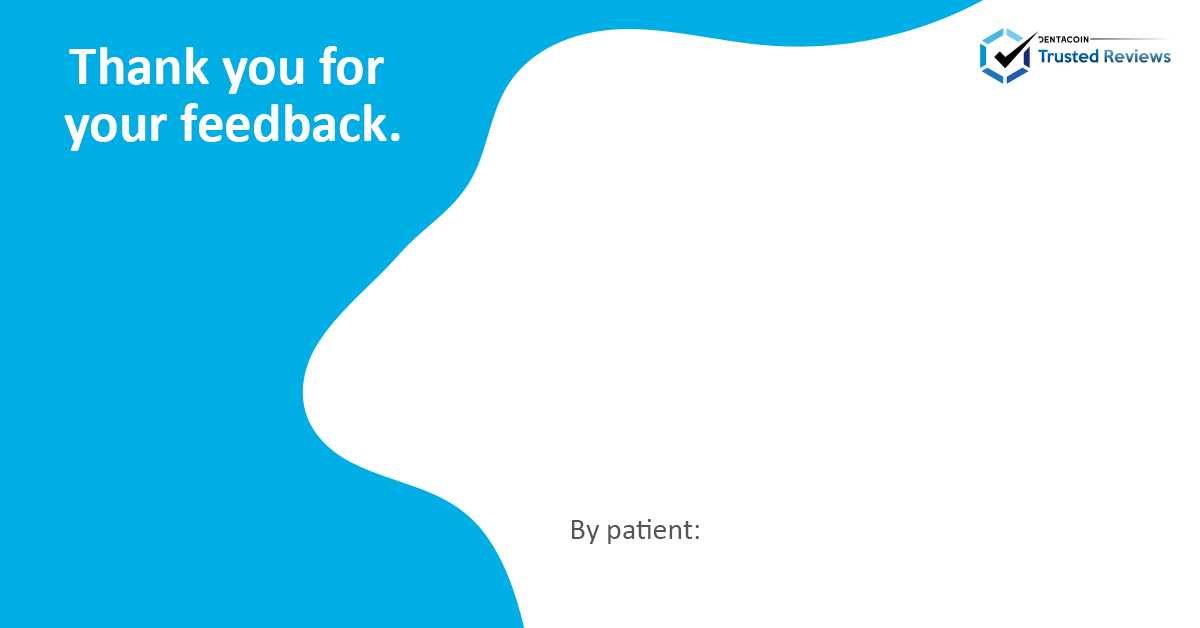
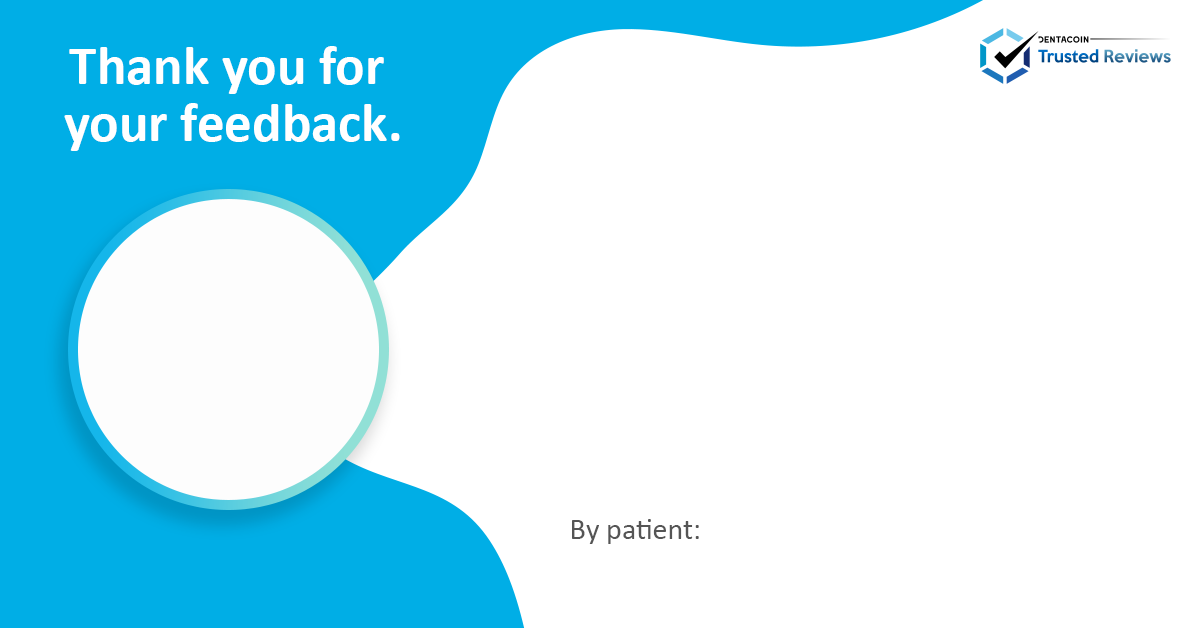
new trp changes

Changed region(s): [[0.0308, 0.3025, 0.3392, 0.8471]]

diff --git a/app/Models/Review.php b/app/Models/Review.php
@@ -168,8 +168,13 @@ class Review extends Model {
             $img->insert( public_path().'/img-trp/new-cover-review.png');
 
             $avatar_image_dentist = Image::make( $dentist->getImagePath(true) );
-            $avatar_image_dentist->resize(320, 320);
-            $img->insert( $avatar_image_dentist , 'top-left', 70, 190 );
+            $avatar_image_dentist->resize(302, 302);
+
+            $avatar_mask = Image::canvas(302, 302, '#fff');
+            $avatar_mask->insert( $avatar_image_dentist, 'top-left', 0, 0 );
+            $avatar_mask->insert( public_path().'/img-trp/new-dentist-mask-review.png' , 'top-left', 0, 0 );
+
+            $img->insert( $avatar_mask , 'top-left', 78, 199 );
 
         } else {
             $img->insert( public_path().'/img-trp/new-cover-review-no-avatar.png');

diff --git a/app/Http/Controllers/Auth/AuthenticateUser.php b/app/Http/Controllers/Auth/AuthenticateUser.php
@@ -75,7 +75,7 @@ class AuthenticateUser extends FrontController
     {
         if (Auth::guard('web')->attempt( ['email' => $request->input('email'), 'password' => $request->input('password') ], $request->input('remember') )) {
             
-            if( $ban_info = Auth::guard('web')->user()->isBanned('trp') ) {
+            if( Auth::guard('web')->user()->isBanned('trp') ) {
                 Auth::guard('web')->logout();
                 return Response::json( [
                     'success' => false, 
